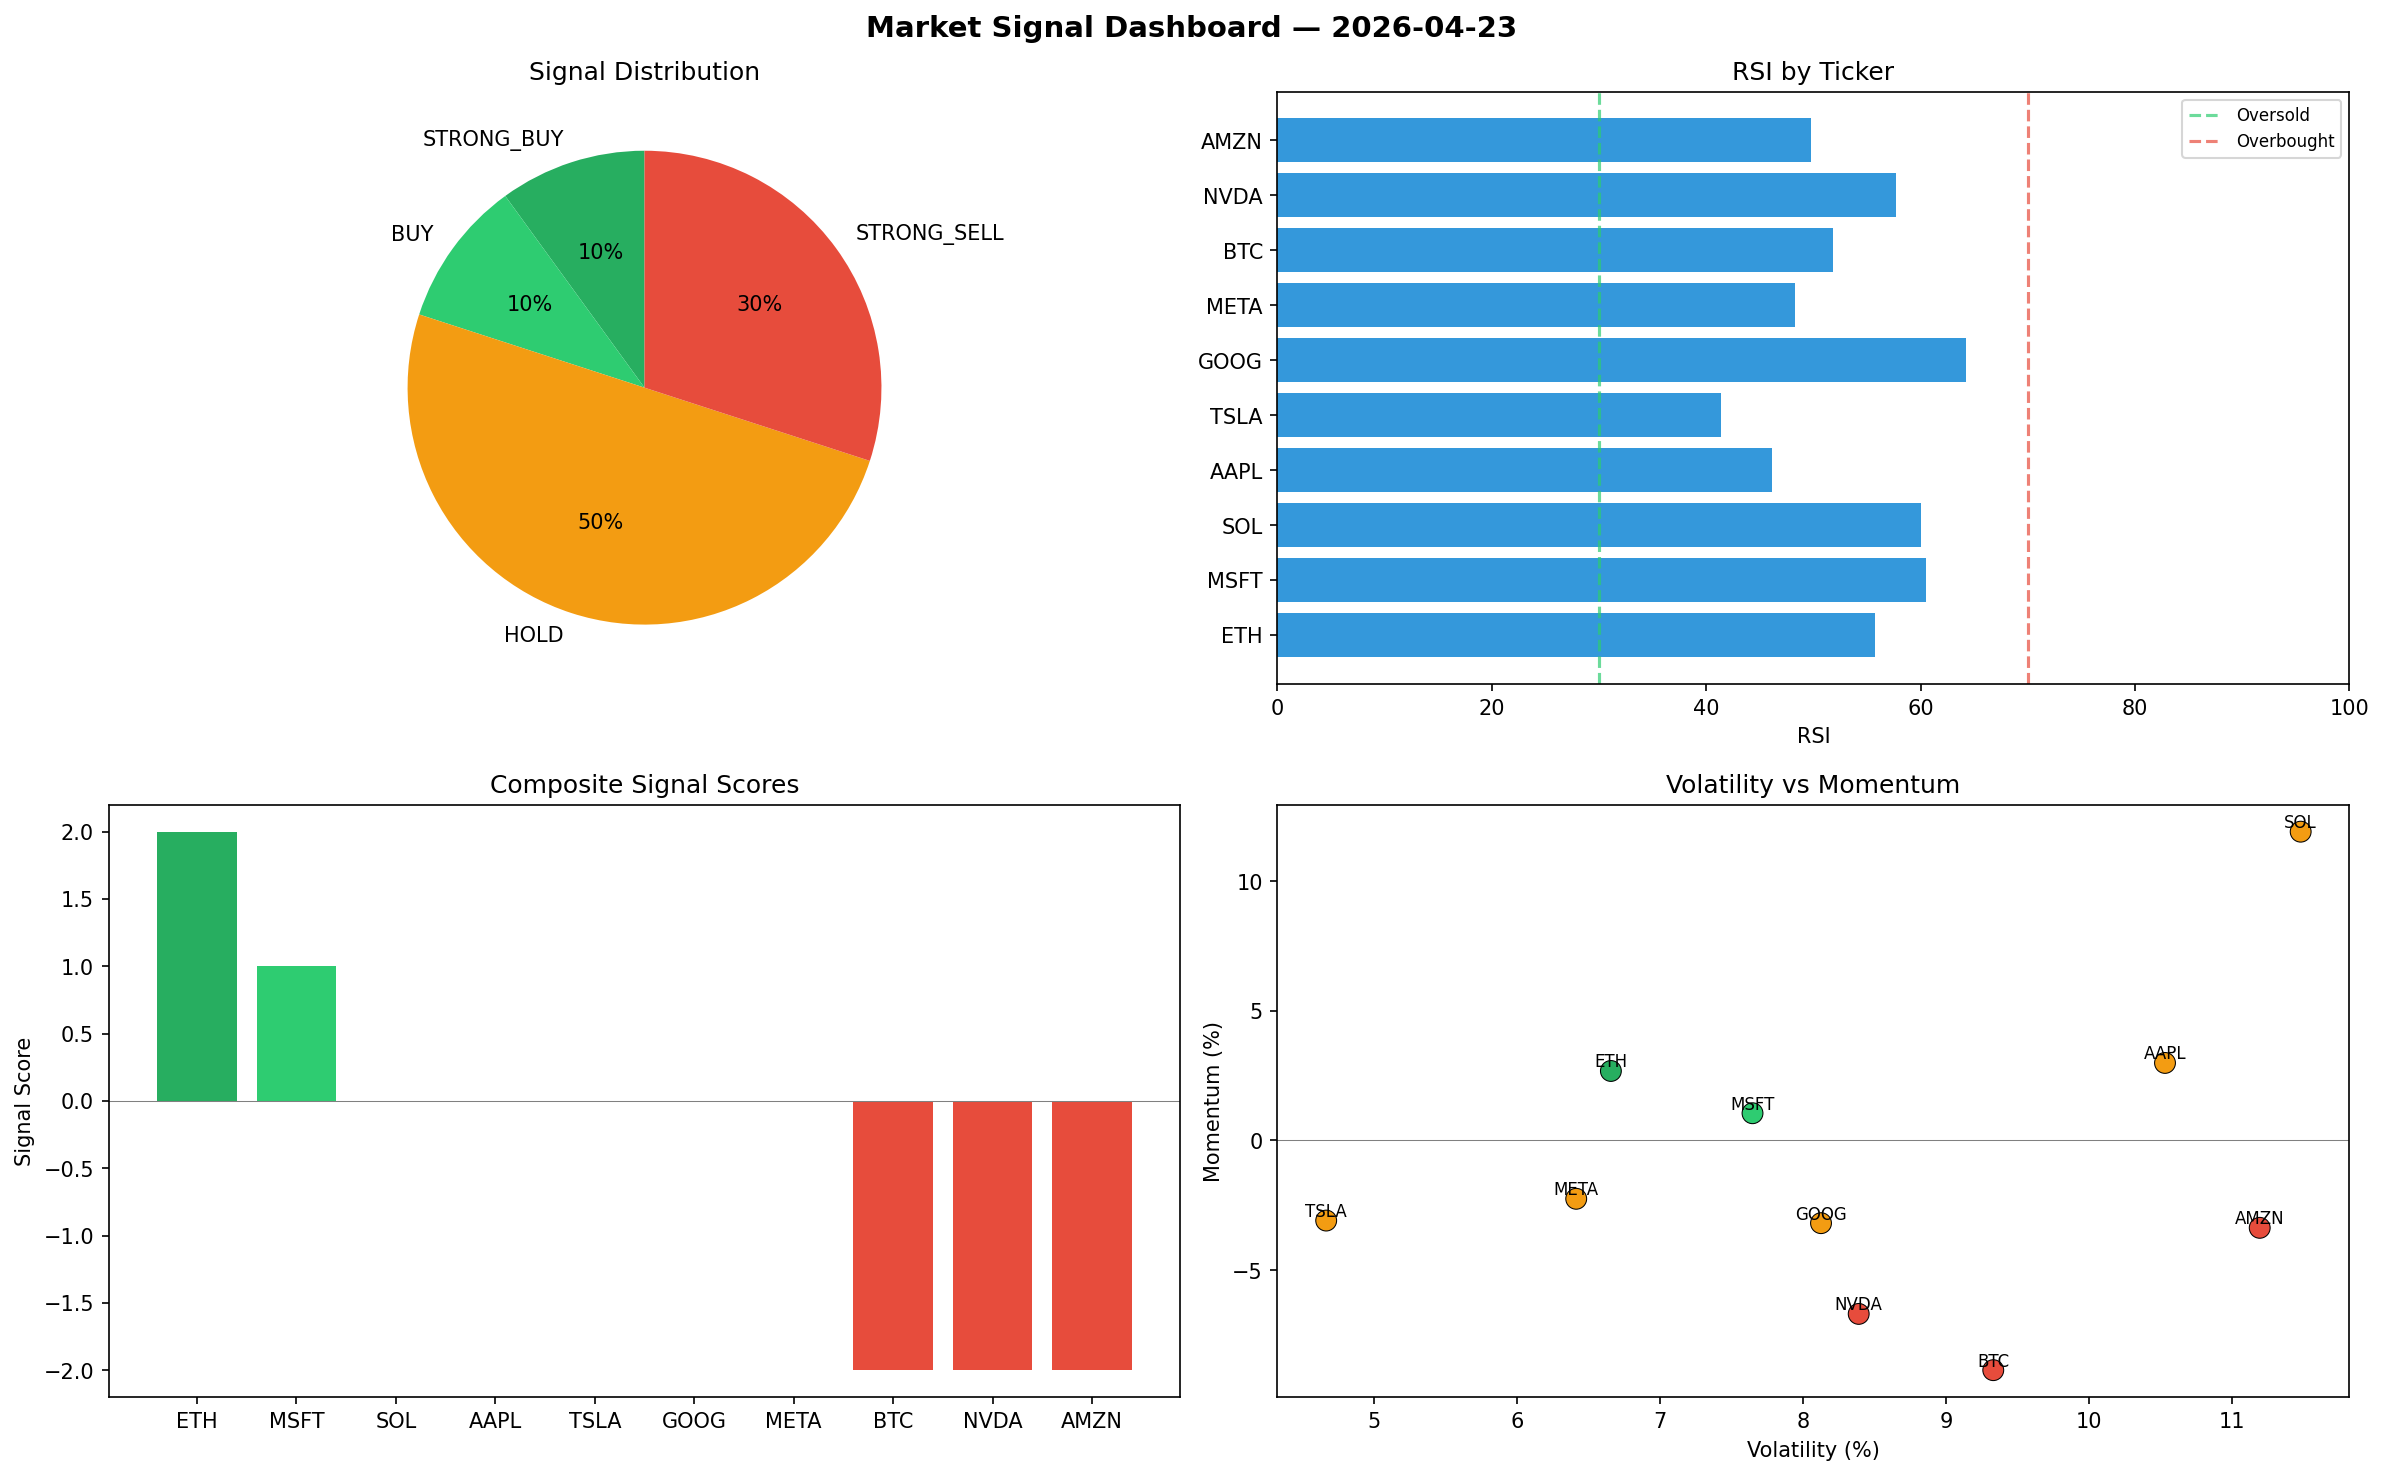
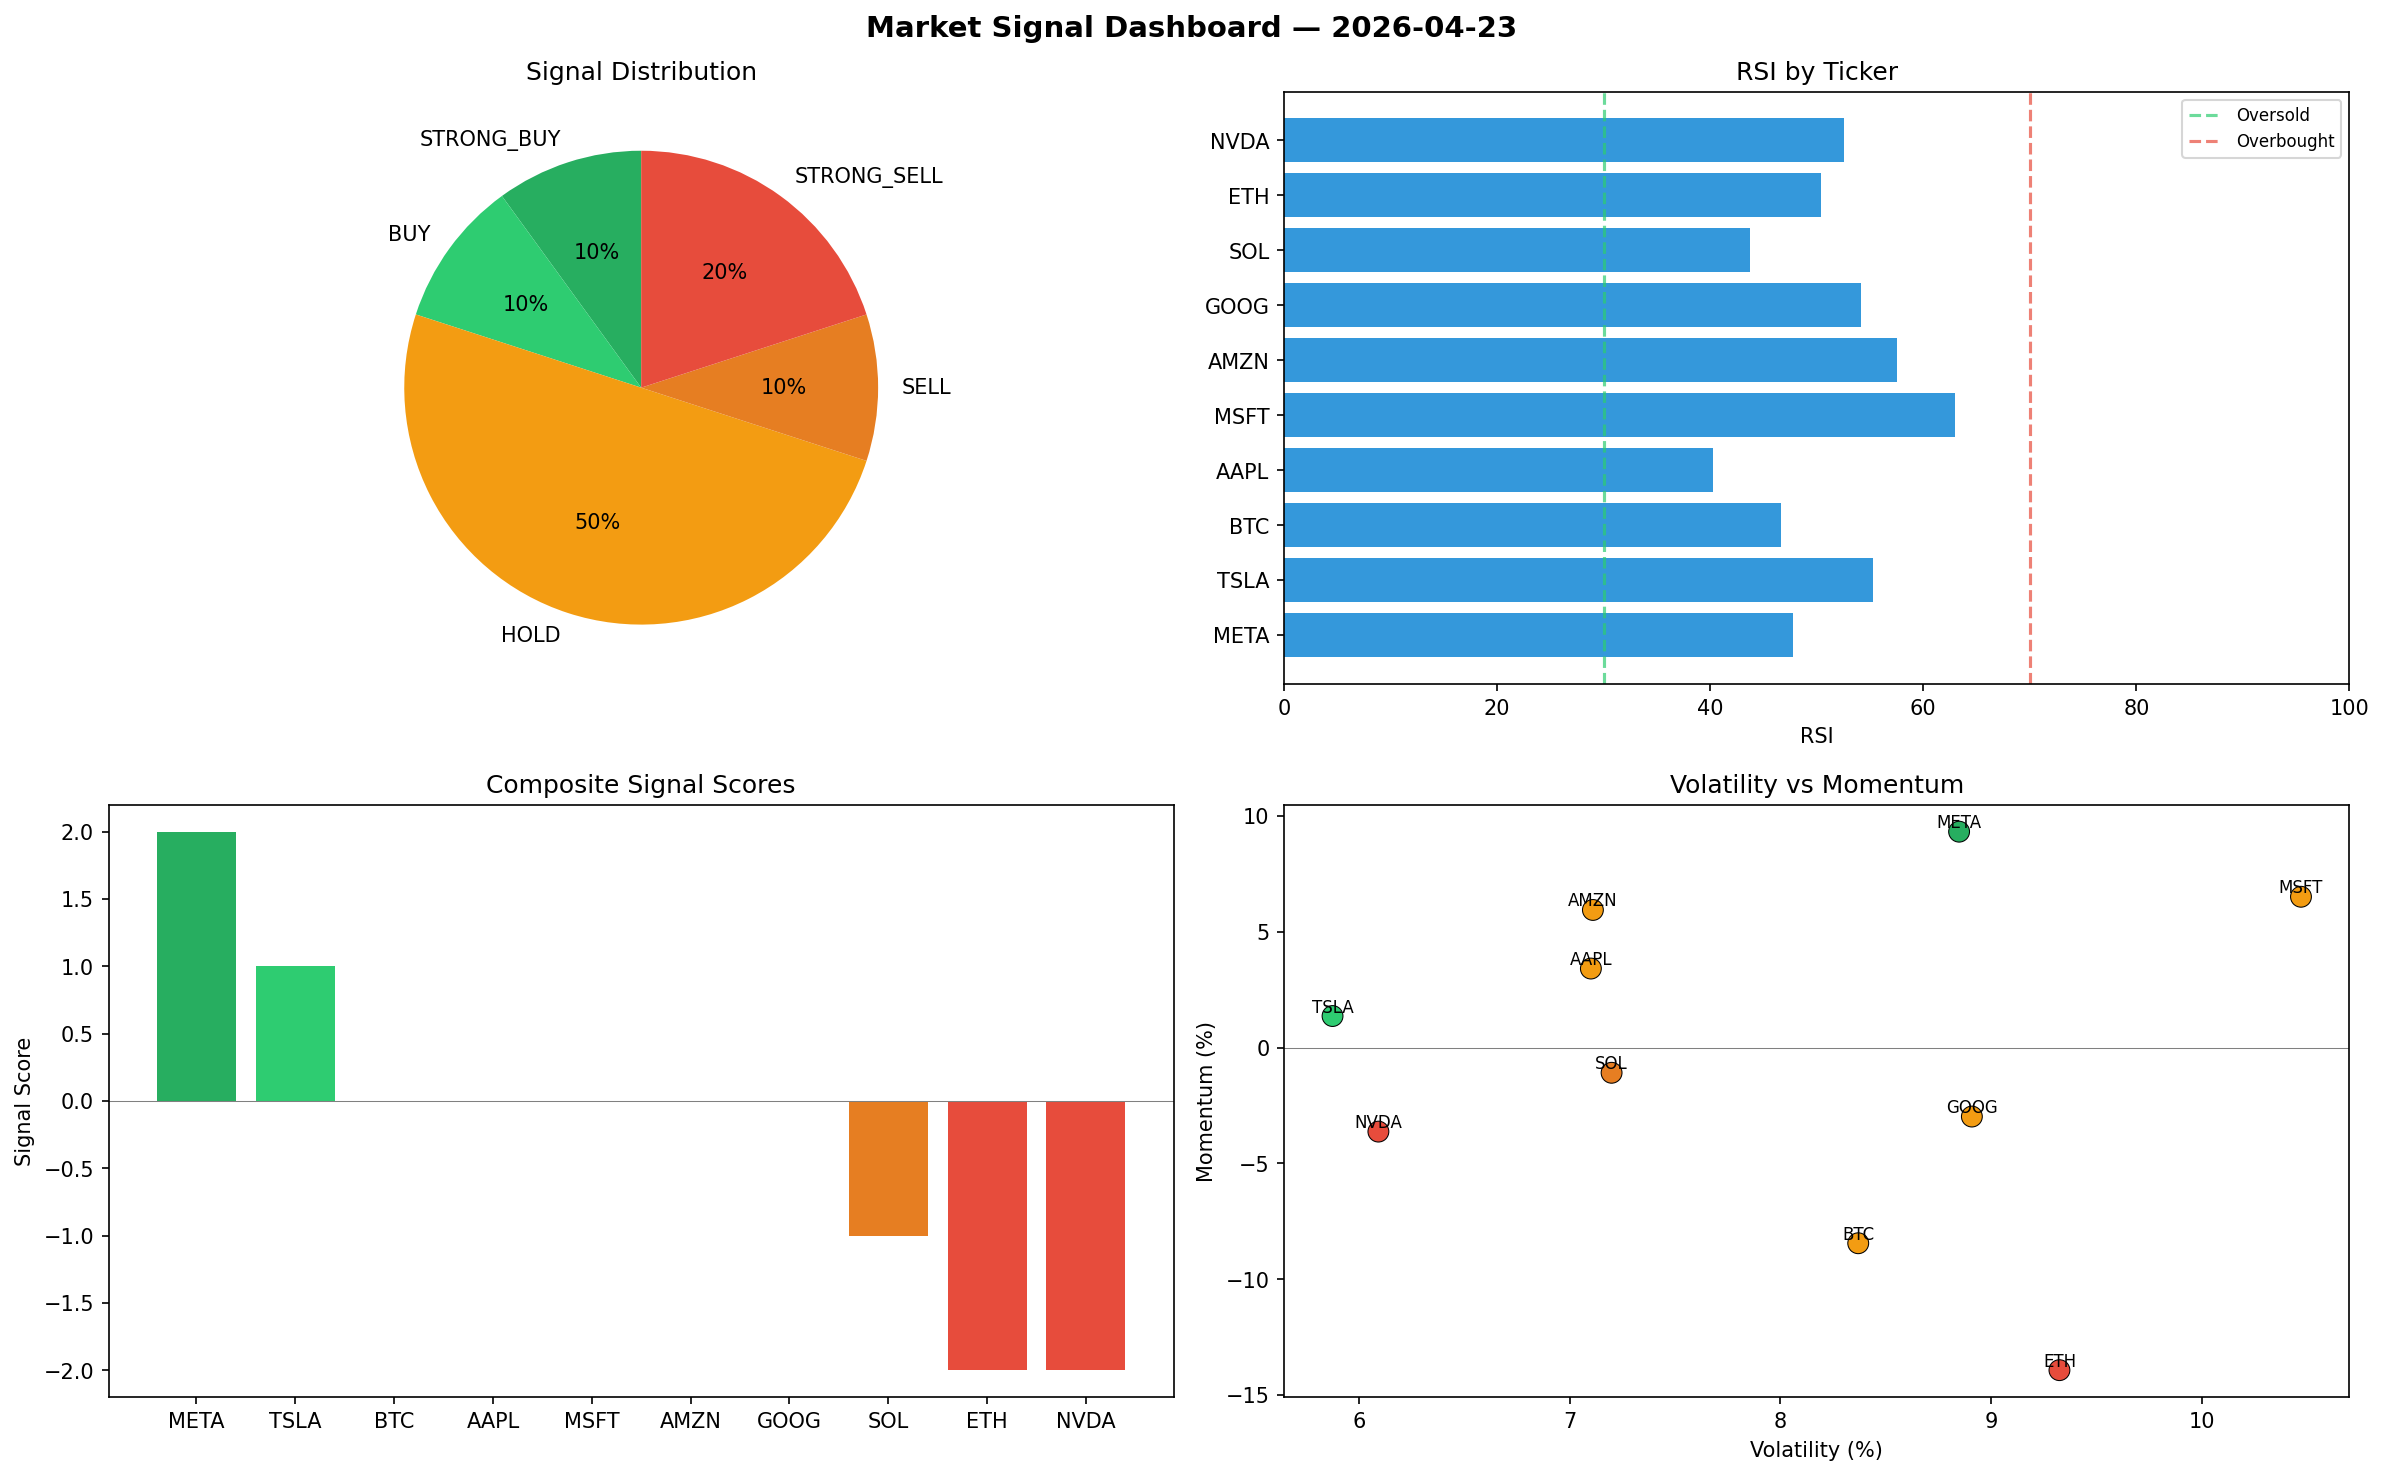
automated-bots: market signals 2026-04-23T16:17

diff --git a/logs/2026-04-23.md b/logs/2026-04-23.md
@@ -1,6 +1,6 @@
 # Market Signal Report — 2026-04-23
 
-**Run ID:** `63df54009a` | **Buy:** 2 | **Sell:** 3 | **Hold:** 5
+**Run ID:** `e55f1b2900` | **Buy:** 2 | **Sell:** 3 | **Hold:** 5
 
 ![Dashboard](2026-04-23_dashboard.png)
 
@@ -8,28 +8,28 @@
 
 | Ticker | Price | Signal | Score | RSI | Momentum | Confidence |
 |--------|-------|--------|-------|-----|----------|------------|
-| ETH | $3869.86 | **STRONG_BUY** | 2 | 55.74 | 0.0268 | 0.5 |
-| MSFT | $3138.6 | **BUY** | 1 | 60.48 | 0.0105 | 0.25 |
-| SOL | $2020.75 | **HOLD** | 0 | 60.02 | 0.1191 | 0.0 |
-| AAPL | $2142.47 | **HOLD** | 0 | 46.16 | 0.0299 | 0.0 |
-| TSLA | $3468.92 | **HOLD** | 0 | 41.37 | -0.0309 | 0.0 |
-| GOOG | $641.84 | **HOLD** | 0 | 64.27 | -0.0319 | 0.0 |
-| META | $3362.04 | **HOLD** | 0 | 48.27 | -0.0225 | 0.0 |
-| BTC | $2058.75 | **STRONG_SELL** | -2 | 51.85 | -0.0886 | 0.5 |
-| NVDA | $1133.79 | **STRONG_SELL** | -2 | 57.73 | -0.0669 | 0.5 |
-| AMZN | $1865.84 | **STRONG_SELL** | -2 | 49.75 | -0.0337 | 0.5 |
+| META | $131.21 | **STRONG_BUY** | 2 | 47.77 | 0.0932 | 0.5 |
+| TSLA | $2675.11 | **BUY** | 1 | 55.28 | 0.0136 | 0.25 |
+| BTC | $954.67 | **HOLD** | 0 | 46.63 | -0.0845 | 0.0 |
+| AAPL | $3822.54 | **HOLD** | 0 | 40.29 | 0.0341 | 0.0 |
+| MSFT | $1650.05 | **HOLD** | 0 | 62.97 | 0.0651 | 0.0 |
+| AMZN | $1496.43 | **HOLD** | 0 | 57.52 | 0.0594 | 0.0 |
+| GOOG | $4622.39 | **HOLD** | 0 | 54.14 | -0.0298 | 0.0 |
+| SOL | $2317.16 | **SELL** | -1 | 43.72 | -0.0109 | 0.25 |
+| ETH | $3271.31 | **STRONG_SELL** | -2 | 50.4 | -0.1393 | 0.5 |
+| NVDA | $532.58 | **STRONG_SELL** | -2 | 52.55 | -0.0363 | 0.5 |
 
 ## Delta vs Yesterday
 
 | Ticker | Today | Yesterday | Price Change | Signal Changed |
 |--------|-------|-----------|-------------|----------------|
-| ETH | STRONG_BUY | HOLD | 📈 471.54% | ⚠ YES |
-| MSFT | BUY | SELL | 📈 114.65% | ⚠ YES |
-| SOL | HOLD | HOLD | 📉 -58.69% | — |
-| AAPL | HOLD | STRONG_BUY | 📉 -52.54% | ⚠ YES |
-| TSLA | HOLD | HOLD | 📈 26.9% | — |
-| GOOG | HOLD | HOLD | 📈 4.37% | — |
-| META | HOLD | HOLD | 📈 1638.57% | — |
-| BTC | STRONG_SELL | STRONG_BUY | 📉 -56.87% | ⚠ YES |
-| NVDA | STRONG_SELL | BUY | 📈 24.09% | ⚠ YES |
-| AMZN | STRONG_SELL | HOLD | 📉 -40.71% | ⚠ YES |
+| META | STRONG_BUY | HOLD | 📉 -32.15% | ⚠ YES |
+| TSLA | BUY | HOLD | 📉 -2.14% | ⚠ YES |
+| BTC | HOLD | STRONG_BUY | 📉 -80.0% | ⚠ YES |
+| AAPL | HOLD | STRONG_BUY | 📉 -15.32% | ⚠ YES |
+| MSFT | HOLD | SELL | 📈 12.85% | ⚠ YES |
+| AMZN | HOLD | HOLD | 📉 -52.45% | — |
+| GOOG | HOLD | HOLD | 📈 651.64% | — |
+| SOL | SELL | HOLD | 📉 -52.63% | ⚠ YES |
+| ETH | STRONG_SELL | HOLD | 📈 383.14% | ⚠ YES |
+| NVDA | STRONG_SELL | BUY | 📉 -41.71% | ⚠ YES |
